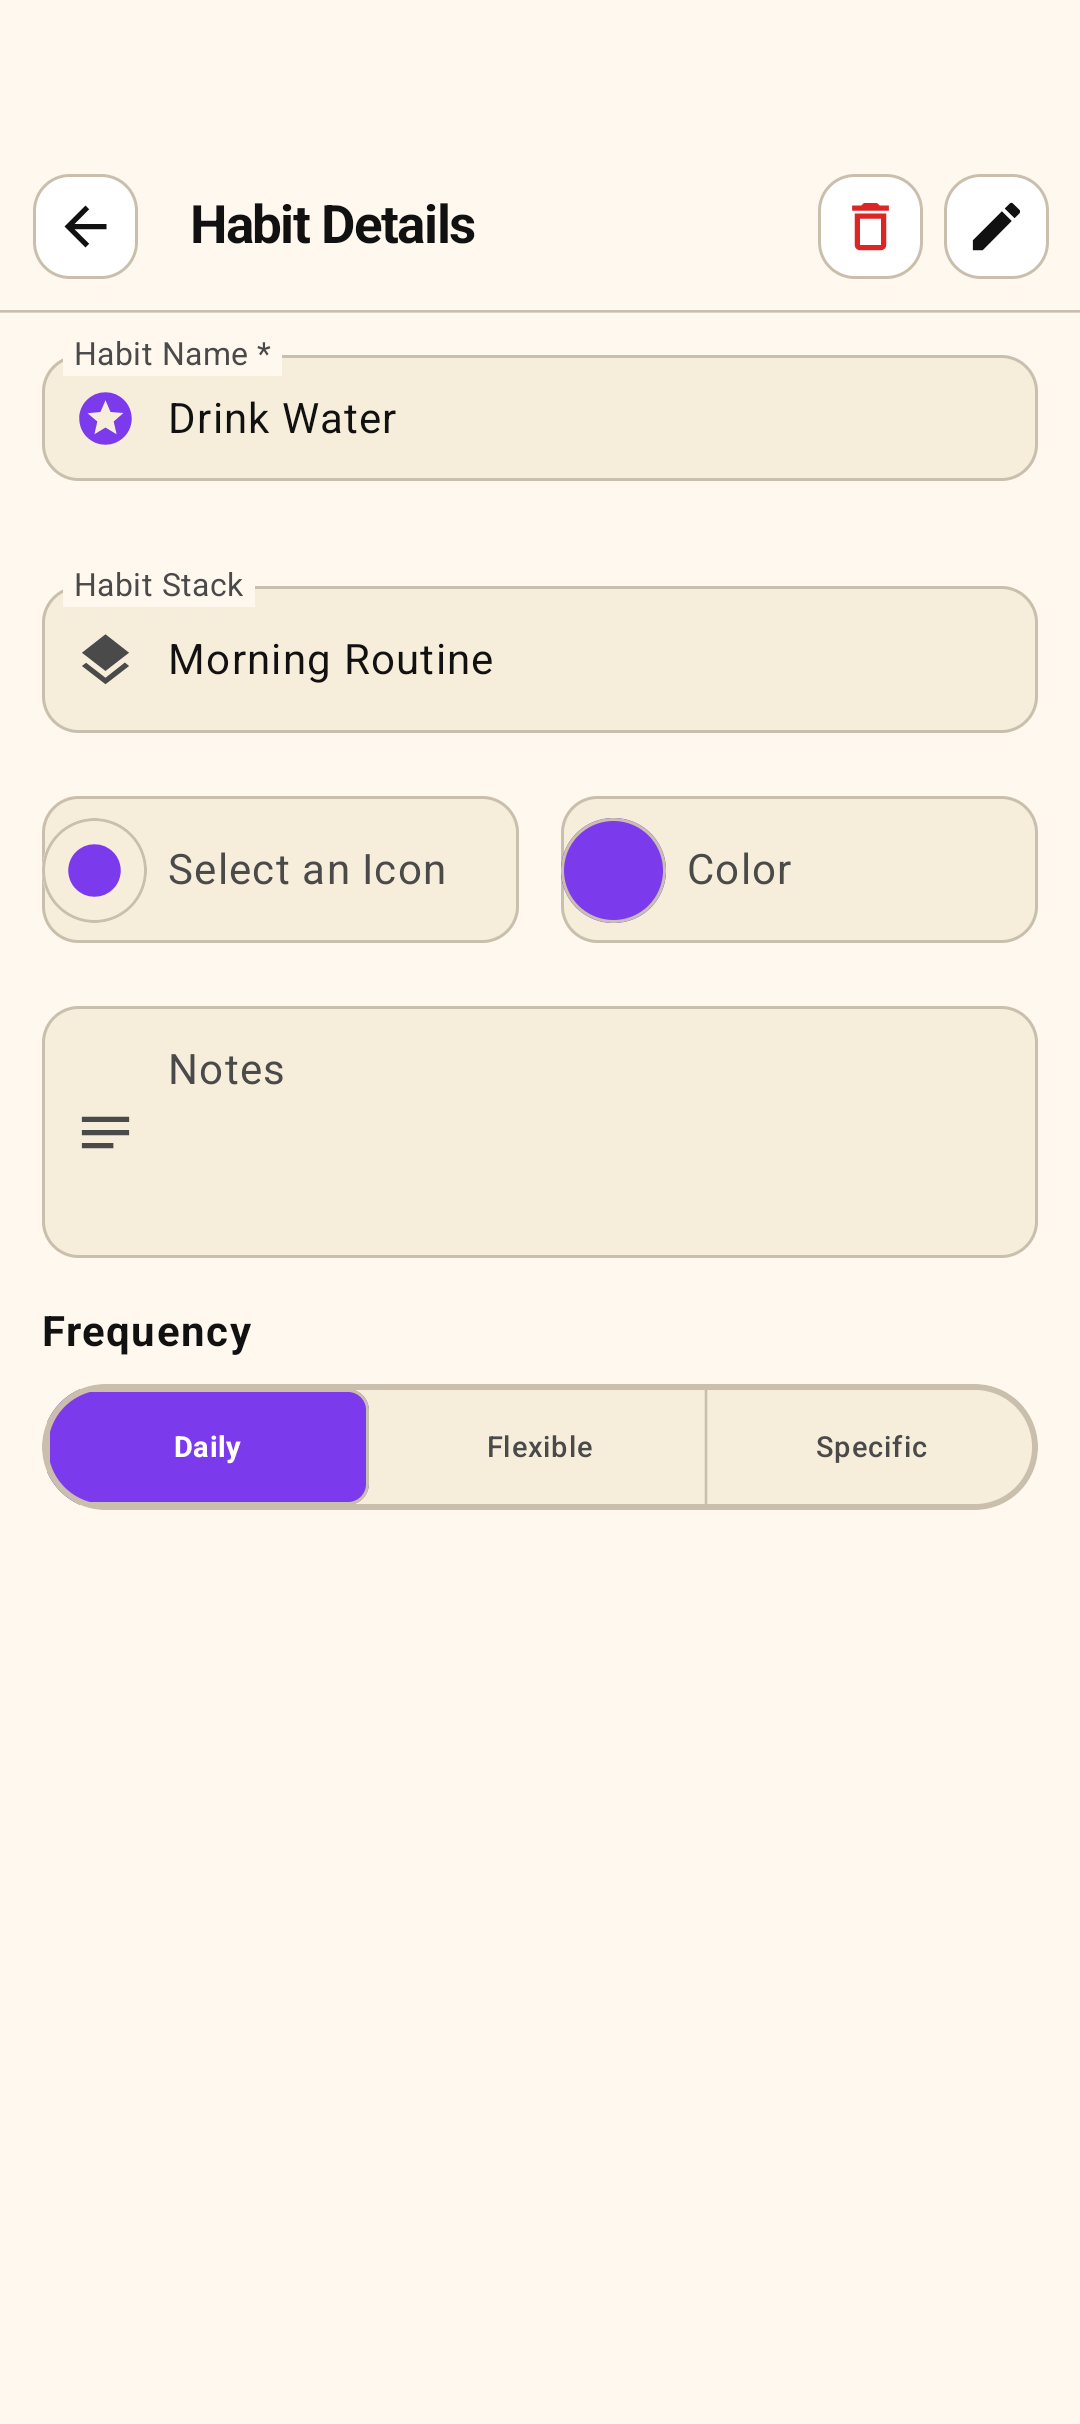
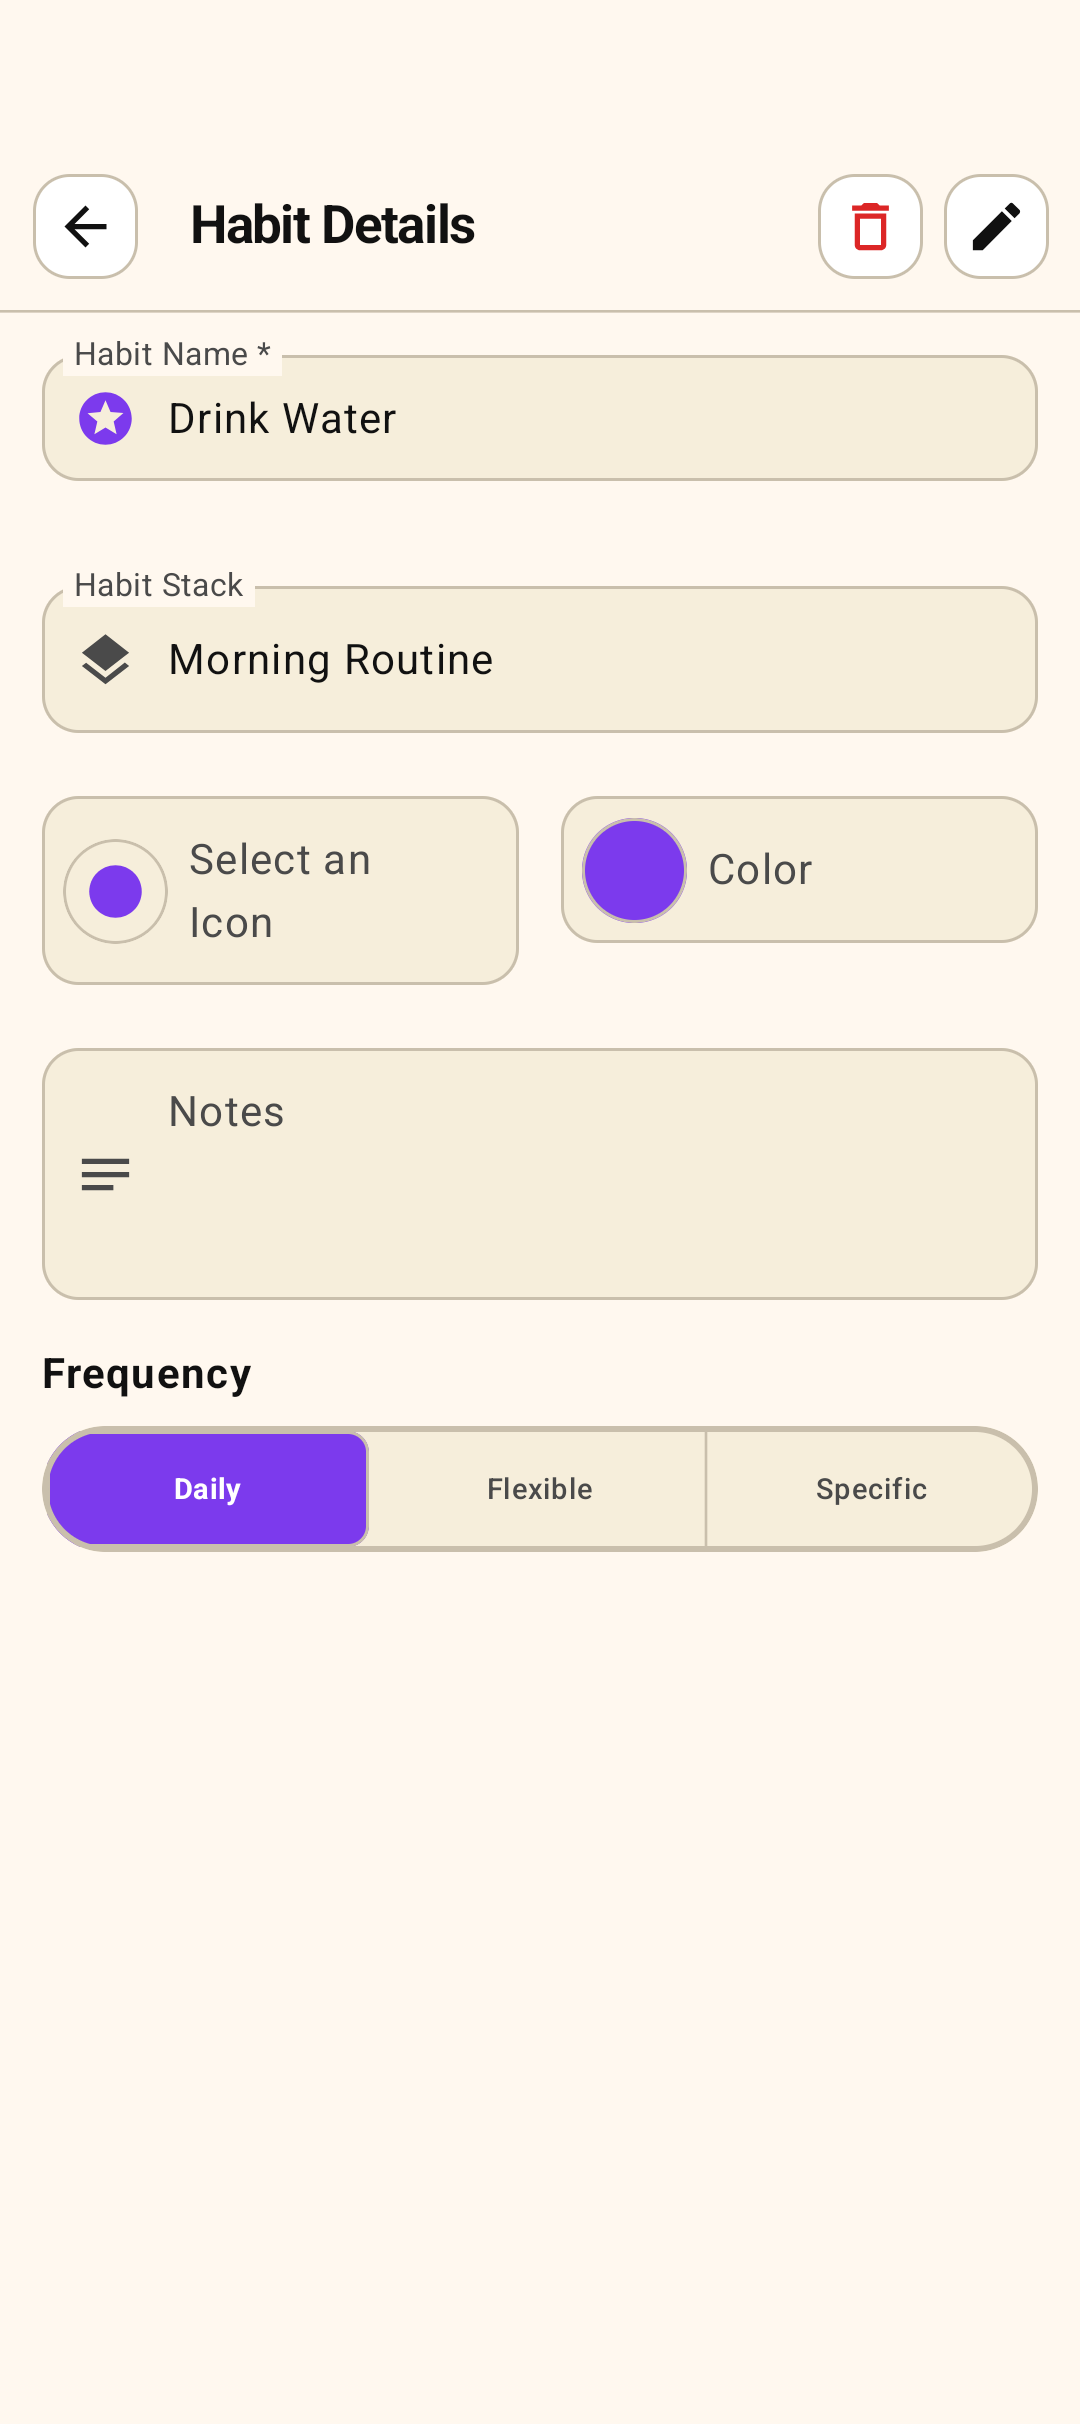
Added small padding

diff --git a/app/src/main/java/io/github/benji377/timety/ui/components/common/DetailPickers.kt b/app/src/main/java/io/github/benji377/timety/ui/components/common/DetailPickers.kt
@@ -54,14 +54,14 @@ fun PickerField(
             readOnly = true,
             enabled = enabled,
             label = { Text(label) },
-            // Trailing gap on the leading slot: [content] here is a 40dp swatch or icon circle,
+            // Start and trailing gap on the leading slot: [content] here is a 40dp swatch or icon circle,
             // far wider than the 24dp glyph M3 sizes its own leading-icon spacing for, so without
             // this the label sits flush against the swatch's edge. Kept at spaceSmall rather than
             // anything wider because this padding also eats into the label's available width, and
             // these fields are half-width - at spaceMedium "Select an Icon" wraps to two lines.
             leadingIcon = {
                 Box(
-                    modifier = Modifier.padding(end = AppTheme.spaceSmall),
+                    modifier = Modifier.padding(start = AppTheme.spaceSmall, end = AppTheme.spaceSmall),
                     contentAlignment = Alignment.Center,
                 ) { content() }
             },
